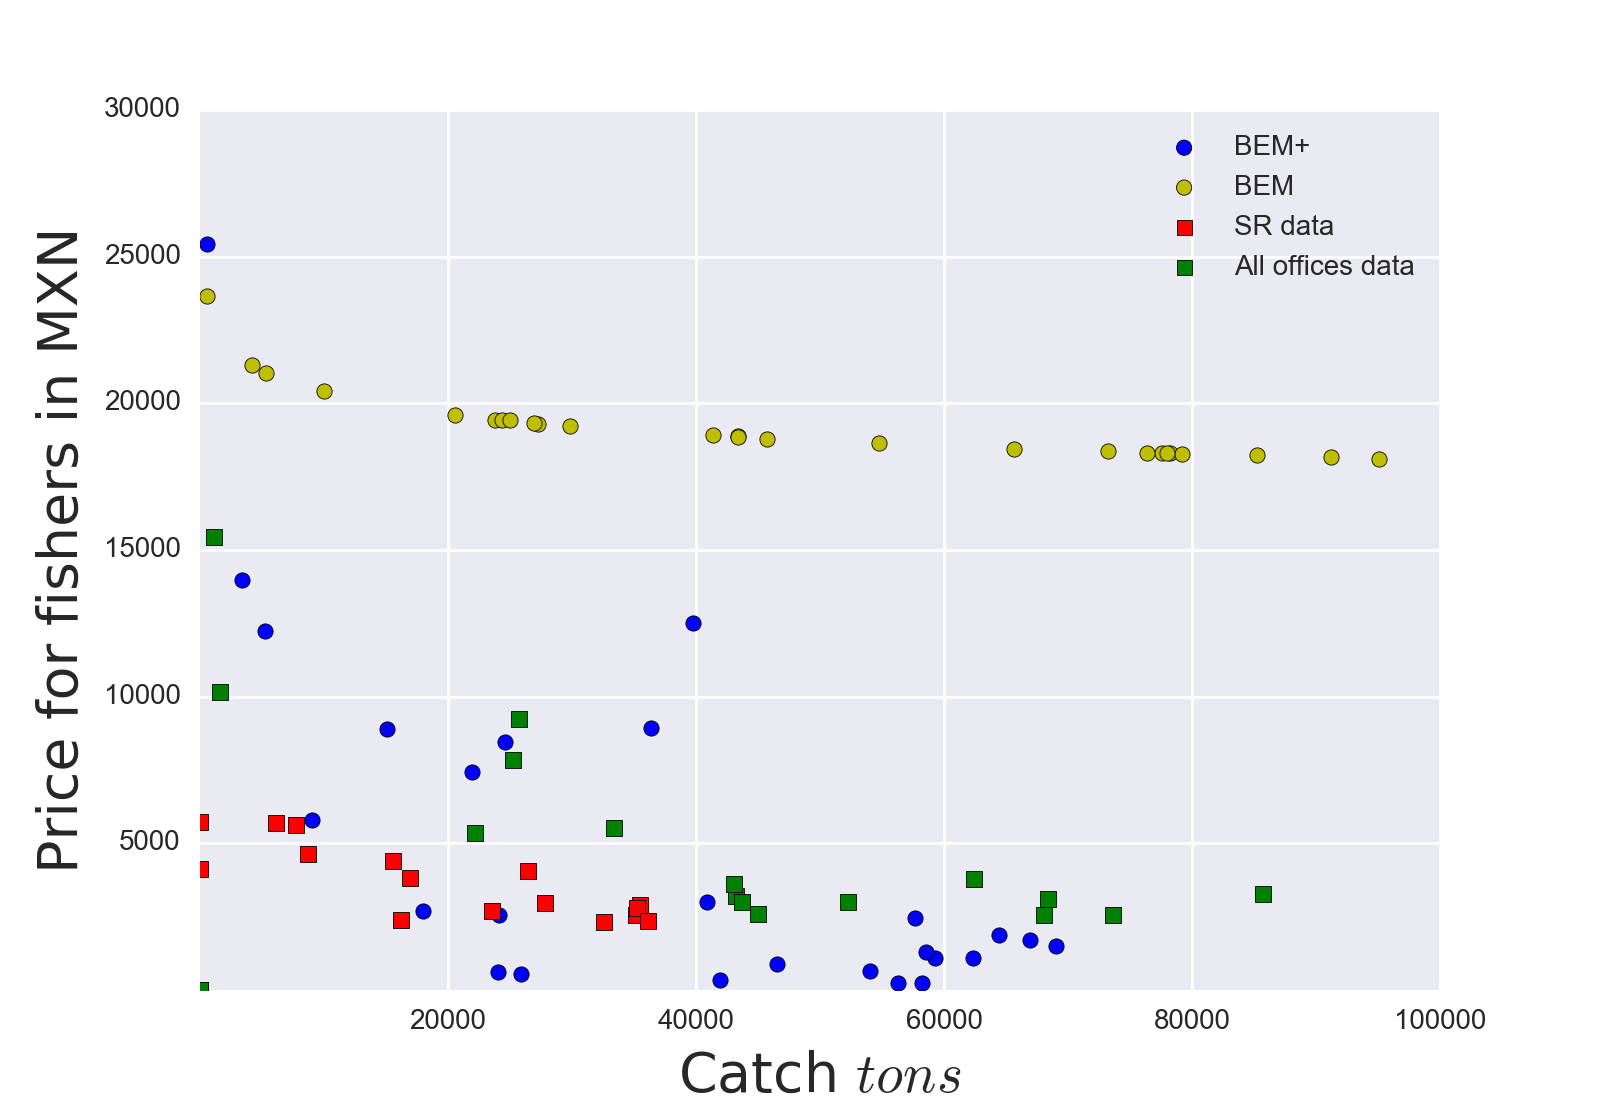
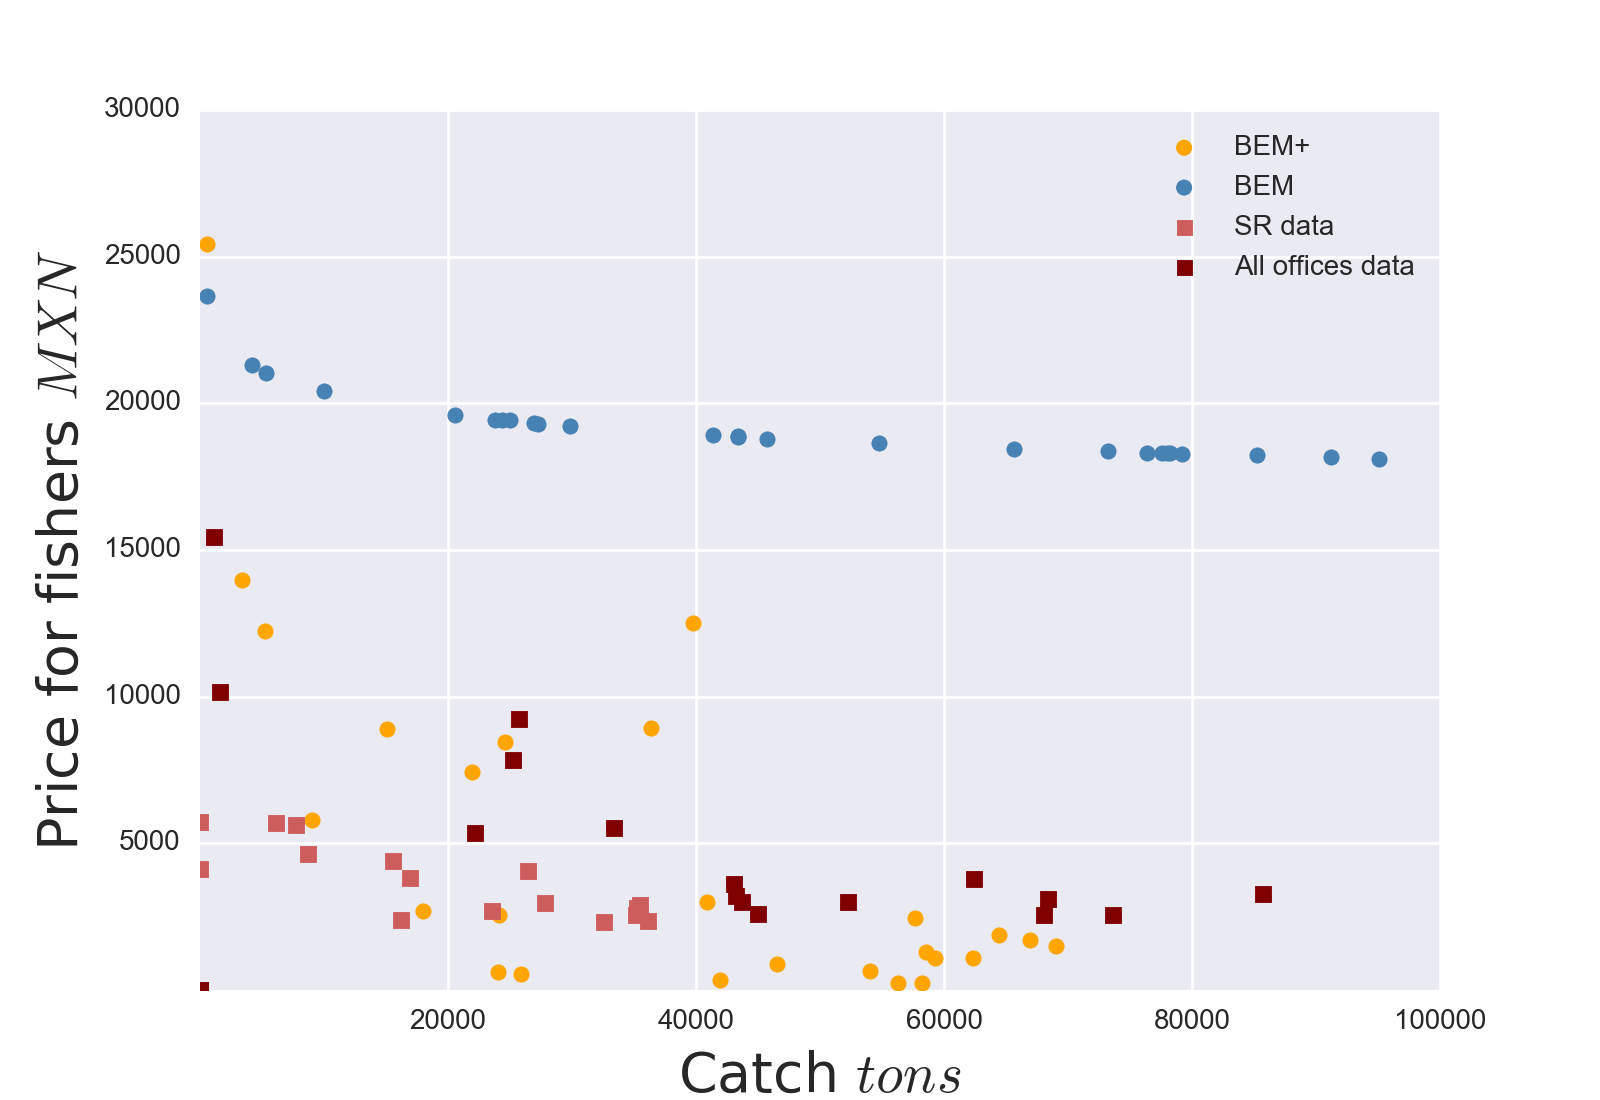
changed directory

diff --git a/Plot_20180411.py b/Plot_20180411.py
@@ -37,15 +37,15 @@ x = range(100000)
 y = range(0,4)
 fig = plt.figure()
 ax1 = fig.add_subplot(111)
-ax1.scatter(meanR_C, meanR_P, s=30, c='b', marker="o", label='BEM+')
-ax1.scatter(meanNoR_C, meanNoR_P, s=30, c='y', marker="o", label='BEM')
-ax1.scatter(VolSR, PrSR, s=30, c='r', marker="s", label='SR data')
-ax1.scatter(VolAll, PrAll, s=30, c='g', marker="s", label='All offices data')
+ax1.scatter(meanR_C, meanR_P, s=30, color="orange", marker="o", label='BEM+')
+ax1.scatter(meanNoR_C, meanNoR_P, s=30, color="steelblue", marker="o", label='BEM')
+ax1.scatter(VolSR, PrSR, s=30, color="indianred", marker="s", label='SR data')
+ax1.scatter(VolAll, PrAll, s=30, color="maroon", marker="s", label='All offices data')
 # x-axis
 plt.xlabel("Catch $tons$",fontsize=20, **hfont)
 plt.xlim(1,1E5)
 # y-axis
-plt.ylabel("Price for fishers in MXN",fontsize=20, **hfont)
+plt.ylabel("Price for fishers $MXN$",fontsize=20, **hfont)
 plt.ylim(1,)
 # legend
 plt.legend(loc="best", fontsize=10);

diff --git a/RunModel_20180411.py b/RunModel_20180411.py
@@ -6,7 +6,7 @@ import seaborn as sns
 import pandas as pd
 
 #### model w/o relationships ###################################################
-flag = 1 # 0 = NoR model; 1 = Rmodel
+flag = 0 # 0 = NoR model; 1 = Rmodel
 
 ##### Run the model ############################################################
 OUT = np.zeros(tau.shape[0])
